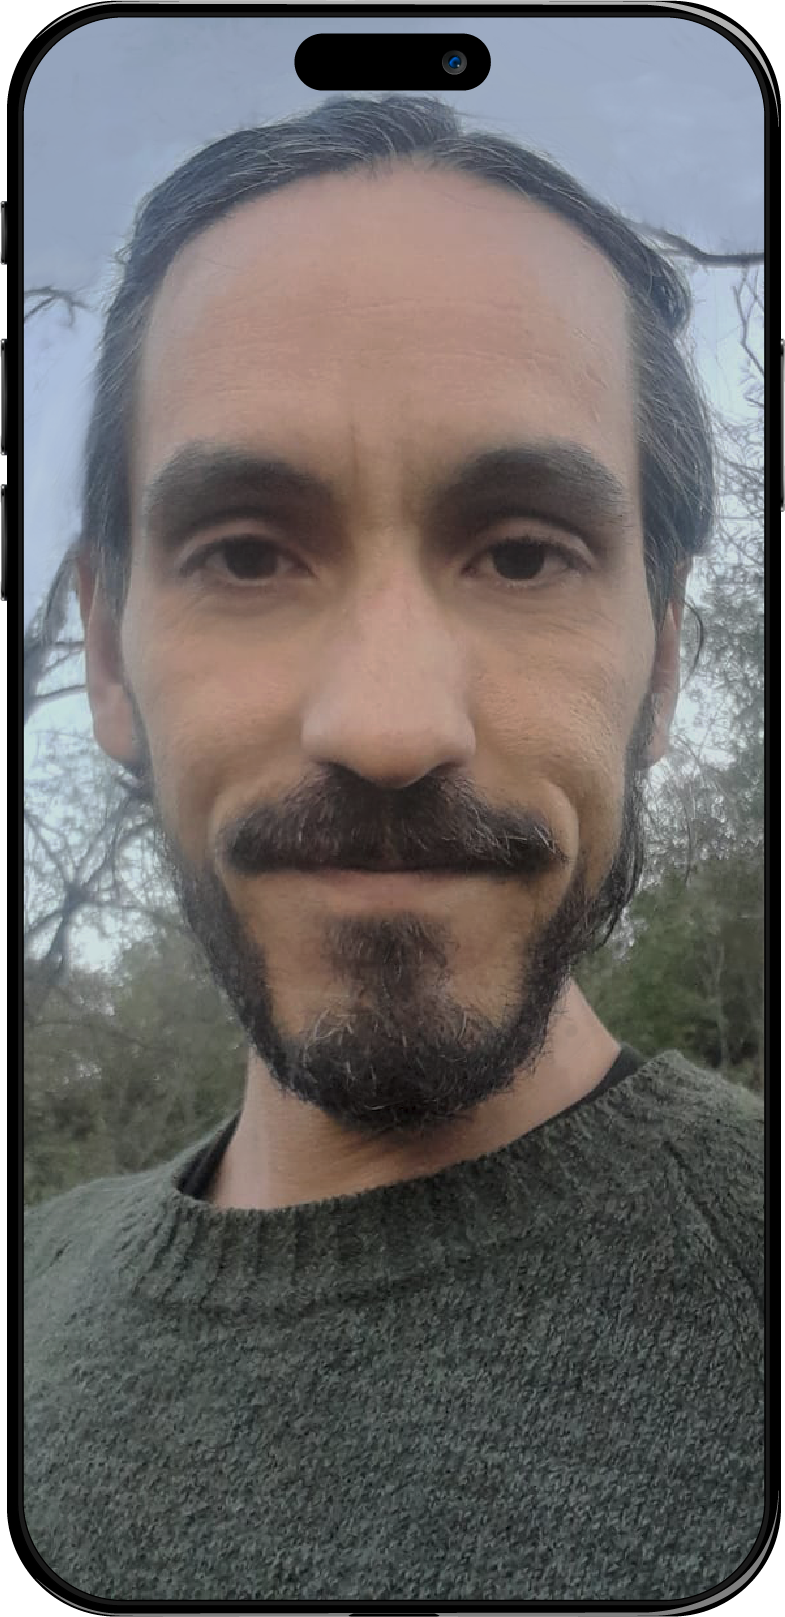
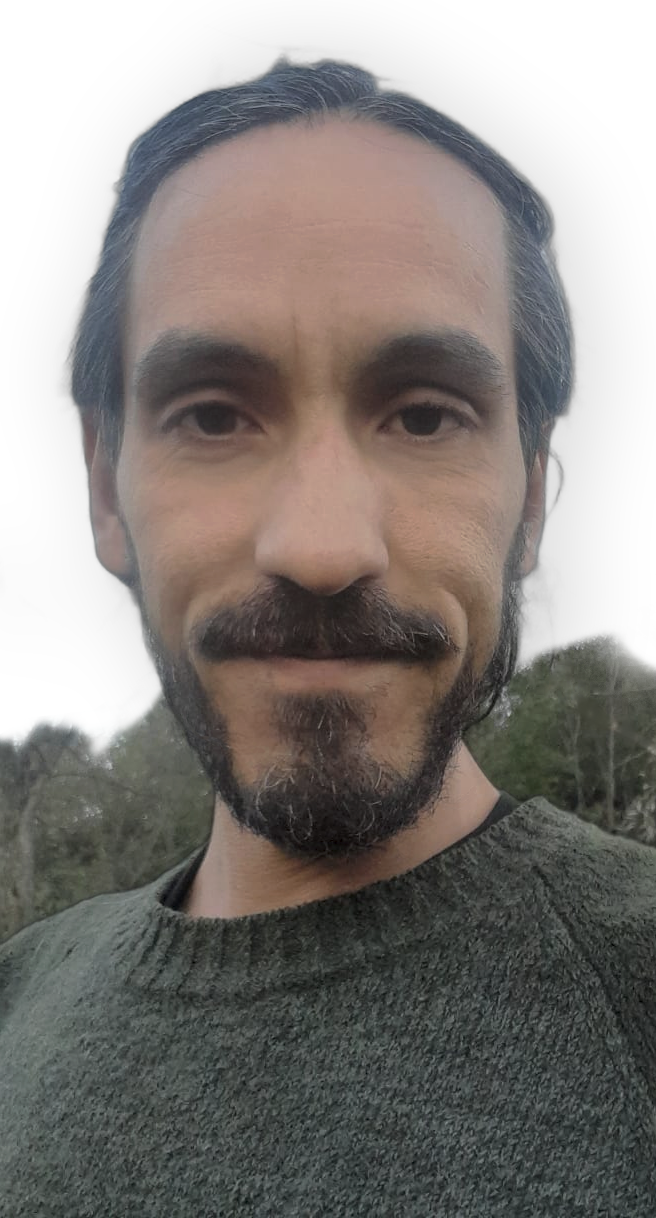
se cambio la foto de perfil por la que tiene hojas

diff --git a/app/sobre-mi/page.tsx b/app/sobre-mi/page.tsx
@@ -5,24 +5,22 @@ const SobreMiPage = () => {
   return (
       <div className="mt-[38vh] pb-50 text-background">
             <div className="px-[11%] mx-auto">
-                   <h1 className="font-title text-pretty text-5xl md:text-5xl lg:text-6xl lg:max-w-3xl">
-                              Sobre Mi
-                            </h1>
+                  
                 <div className="grid md:grid-cols-2 gap-8 relative overflow-x-hidden">
-                    <div className="md:order-2 relative mt-33">
-                        <Image priority={true} src="/profile2.png" alt="Juan Manuel Esparré - Desarrollador Web Full Stack y Diseñador UX/UI"
-                            className="rounded-2xl w-[50%] mx-auto object-cover filter brightness-105"
+                    <div className="md:order-2 relative ">
+                        <Image priority={true} src="/profile6.png" alt="Juan Manuel Esparré - Desarrollador Web Full Stack y Diseñador UX/UI"
+                            className="rounded-2xl border-background border-2 w-[100%] lg:w-[59%] md:w-[70%] m-auto object-cover filter brightness-105"
                          width={388} height={568} quality={100} /> 
                         
                     </div>
                     <div className="md:order-1 flex flex-col justify-between">
-                        <div className="flex flex-col h-full justify-between mt-[1em] sm:mt-[35%]">
+                        <div className="flex flex-col h-full justify-between mt-[1em] ">
                             <div>
-                                <h2 className="text-5xl font-semibold  mt-auto pt-8">
-                                    Juan Manuel Esparré
-                                </h2>
+                                 <h1 className="font-title pb-10 text-pretty text-5xl md:text-5xl lg:text-6xl lg:max-w-3xl">
+                              Sobre Mi
+                            </h1>
                                 <p className="text-sm  w-[95%] pt-4 ">
-                                     Soy un desarrollador creativo que siempre tuvo curiosidad por cómo funcionan las cosas. Me encanta crear cosas que no solo sean funcionales, sino también intuitivas y un poco encantadoras. Ya sea una microinteracción o una experiencia completa, creo que el buen diseño está en los detalles.
+                                     Mi nombre es Juan Manuel Esparré, tengo 39 años y vivo en San Luis, Argentina. Soy un desarrollador creativo que siempre tuvo curiosidad por cómo funcionan las cosas. Me encanta crear cosas que no solo sean funcionales, sino también intuitivas y un poco encantadoras. Ya sea una microinteracción o una experiencia completa, creo que el buen diseño está en los detalles.
 
 Trabajo mejor cuando formo parte de todo el proceso — desde la primera idea hasta la última línea de código. Ya sea diseñando y desarrollando desde cero, o dando vida a un diseño existente con un desarrollo limpio y responsivo, me enfoco en crear experiencias digitales que simplemente se sientan bien.
                                 </p>

diff --git a/components/ui/contact-2.tsx b/components/ui/contact-2.tsx
@@ -17,7 +17,7 @@ export const Contact2 = ({
   title = "Contacto",
   phone = "(11) 32750873",
   email = "jmesparre@gmail.com",
-  web = { label: "shadcnblocks.com", url: "/" },
+  web = { label: "juandesarrolloweb.com", url: "/" },
 }: Contact2Props) => {
   const [name, setName] = useState("");
   const [userEmail, setUserEmail] = useState("");
@@ -70,13 +70,20 @@ export const Contact2 = ({
           <div className="mx-auto ml-0 sm:order-2 order-1 flex flex-col justify-between">
             <div className="text-left">
               <div className="max-w-120 mt-10 w-[90%] sm:mt-20">
-                   <Image priority={true} src="/contacto-juan-manuel-esparre.png" alt="Servicios de Diseño Gráfico y UX/UI en Argentina" width={1207} height={929} />
+                   <Image priority={true} src="/contacto-juan-manuel-esparre.png" alt="  de Diseño Gráfico y UX/UI en Argentina" width={1207} height={929} />
               </div>
             </div>
             <div className="w-fit lg:mx-0">
               <ul className="list-none">
                  <li className="pb-10">
                   <p>Pongamonos en contacto.</p>
+                </li>
+                 <li >
+                  <a href="https://wa.me/541132750873/?text=Hola" className="font-semibold" target="_blank" rel="noopener noreferrer">
+                    Whatsapp <svg id="Layer_1" xmlns="http://www.w3.org/2000/svg" version="1.1" viewBox="0 0 32.7 32.9" className="h-3.5 w-3.5 inline">
+                <path style={{ fill: '#1ac165', fillRule: 'evenodd' }} d="M24.1,19.7c-.4-.2-2.4-1.3-2.7-1.4-.4-.2-.6-.2-.9.2-.3.4-1.1,1.3-1.4,1.6-.2.3-.5.3-.9,0-.4-.2-1.7-.7-3.2-2.2-1.2-1.1-1.9-2.5-2.2-2.9-.2-.4,0-.6.2-.8.2-.2.4-.5.6-.7.2-.2.3-.4.4-.7.1-.3,0-.5,0-.7,0-.2-.8-2.3-1.1-3.1-.3-.8-.7-.7-.9-.7-.2,0-.5,0-.8,0-.3,0-.7,0-1.1.5-.4.4-1.5,1.3-1.6,3.4,0,2,1.3,4,1.5,4.3.2.3,2.7,4.6,6.8,6.4,4.1,1.8,4.1,1.2,4.9,1.2.8,0,2.5-.9,2.8-1.8.4-.9.4-1.8.3-1.9,0-.2-.4-.3-.8-.5h0ZM16.6,29.4c-2.7,0-5.2-.8-7.3-2.2l-5.1,1.6,1.7-5c-1.6-2.2-2.5-4.9-2.5-7.8,0-7.4,6-13.3,13.3-13.3s13.3,6,13.3,13.3-6,13.3-13.3,13.3h0ZM16.6,0C7.8,0,.6,7.2.6,16s.8,5.9,2.3,8.3l-2.9,8.6,8.9-2.8c2.3,1.3,4.9,2,7.7,2,8.9,0,16-7.2,16-16S25.5,0,16.6,0h0Z"/>
+            </svg>
+                  </a>
                 </li>
                 <li>
                   <span className="font-bold">Telefono: </span>
@@ -109,7 +116,7 @@ export const Contact2 = ({
                 <Input type="email" id="email" placeholder="Email" value={userEmail} onChange={(e) => setUserEmail(e.target.value)} required />
               </div>
               <div className="grid w-full gap-1.5">
-                <Textarea placeholder="Mensaje" id="message" value={message} onChange={(e) => setMessage(e.target.value)} required />
+                <Textarea className="h-[150px]" placeholder="Mensaje" id="message" value={message} onChange={(e) => setMessage(e.target.value)} required />
               </div>
               <Button type="submit" className="w-full border-1" disabled={loading}>
                 {loading ? "Enviando..." : "Enviar"}

diff --git a/components/blocks/trabajos-block.tsx b/components/blocks/trabajos-block.tsx
@@ -20,7 +20,7 @@ const trabajosData = {
     {
       id: "proyecto-tienda-virtual",
       title: "E-commerce para Tienda de San Luis",
-      summary: "Implementación de una tienda virtual completa con pasarelas de pago integradas, gestión de inventario y optimización para conversiones, brindando una plataforma de ventas eficiente y escalable.",
+      summary: "Implementación de una tienda virtual completa con pasarelas de pago integradas, ventas por whataspp y optimización para conversiones, brindando una plataforma de ventas eficiente y escalable.",
       label: "E-commerce",
       author: "Tienda San Luis",
       published: "25 Sep 2023",

diff --git a/app/servicios/page.tsx b/app/servicios/page.tsx
@@ -55,7 +55,7 @@ export default function ServiciosPage() {
                             </ul>
                         </div>                        
                         <div className="relative  p-3 lg:col-span-3 order-1 md:order-2">
-                          <div className="aspect-76/59 relative">
+                          <div className="w-[80%] m-auto relative">
                               <Image priority={true} src="/desarrollador-web-juan-manuel-esparre.png" alt="Juan Manuel Esparré - Desarrollador Web, Diseño Web, E-commerce, SEO, CRM, CMS" width={1207} height={929} />
                           </div>
                       </div>

diff --git a/components/blocks/blog8.tsx b/components/blocks/blog8.tsx
@@ -58,7 +58,7 @@ const TrabajosPage = ({
           <h2 className=" mb-6 text-pretty text-5xl md:text-5xl lg:text-6xl lg:max-w-3xl">
             {heading}
           </h2>
-          <p className="font-base ml-[0%] sm:ml-[39%] mt-[0px] sm:mt-[-140px] md:mt-[-105px] xl:mt-[-120px]">
+          <p className="font-base ml-[0%] opacity-0 sm:ml-[39%] mt-[0px] sm:mt-[-140px] md:mt-[-105px] xl:mt-[-120px]">
             {description}
           </p>
         </div>
